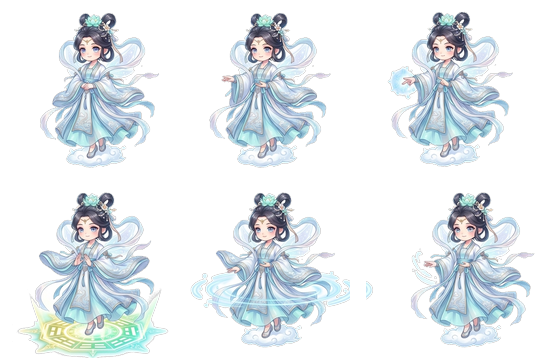
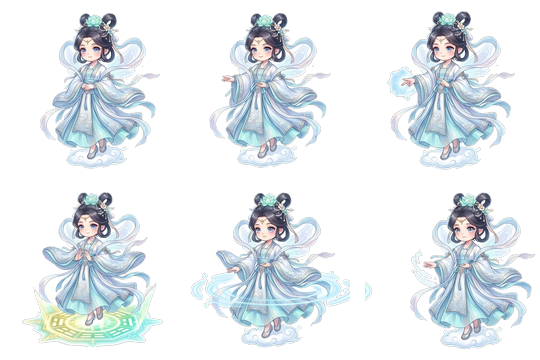
feat(art): 清虚仙子灵木拂尘序列帧实装 + 对齐工具支持逐帧高度归一
序列帧产出
- public/player_spell_fuchen_sheet.png（540x360，3x2，单帧 180x180）
- art-source/raw/qingxu_sheet_fuchen_v1.png 原始出图存档
- 六帧均无拂尘本体，仅角色 + 法术光效；第 3 帧为碧霞仙浪扇面特效

发现并修正：整行缩放差异（这次是新问题）
- 上排三帧角色高约 308px、下排约 318px，相差约 3%
- 上一版工具只做头顶对齐，会导致下排角色偏大、脚底低约 9px
- align_frames.py 改为「逐帧按角色高度归一化再对齐」：
  每帧缩放 = 全局缩放 x (中位角色高 / 本帧角色高)
- 同时把角色高度测量改稳健：剔除"整行宽度异常大"的行，
  避免地面法阵把角色高度撑大（八卦套帧 3 曾因此虚高到 331px）
- 两套复核：头顶均 13±1，角色脚底 92.8~93.9%（目标 93%）

回归验证
- 八卦套用新工具重新生成，脚底一致性较上一版更好

代码
- playerWeaponSheets 新增 spell_fuchen 与 fuchen 类型别名

测试
- 新增灵木拂尘的文件存在/体积/PNG 签名/规格/配置/匹配断言
- 13/13 套件通过；已用 art:frame 截图确认实装后仅有一个拂尘

diff --git a/src/main.js b/src/main.js
@@ -1241,11 +1241,13 @@ const playerWeaponSheets = {
   sword_jifeng: { img: typeof Image !== 'undefined' ? new Image() : null, loaded: false, src: './player_sword_jifeng_sheet.png', frameW: 180, frameH: 180, cols: 3, rows: 2, totalFrames: 6 },
   sword_benlei: { img: typeof Image !== 'undefined' ? new Image() : null, loaded: false, src: './player_sword_benlei_sheet.png', frameW: 180, frameH: 180, cols: 3, rows: 2, totalFrames: 6 },
   spell_bagua: { img: typeof Image !== 'undefined' ? new Image() : null, loaded: false, src: './player_spell_bagua_sheet.png', frameW: 180, frameH: 180, cols: 3, rows: 2, totalFrames: 6 },
+  spell_fuchen: { img: typeof Image !== 'undefined' ? new Image() : null, loaded: false, src: './player_spell_fuchen_sheet.png', frameW: 180, frameH: 180, cols: 3, rows: 2, totalFrames: 6 },
 }
 playerWeaponSheets['sword'] = playerWeaponSheets.sword_qingfeng
 playerWeaponSheets['daggers'] = playerWeaponSheets.sword_jifeng
 playerWeaponSheets['thunder_sword'] = playerWeaponSheets.sword_benlei
 playerWeaponSheets['bagua'] = playerWeaponSheets.spell_bagua
+playerWeaponSheets['fuchen'] = playerWeaponSheets.spell_fuchen
 
 if (!isHeadless) {
   for (const k in playerWeaponSheets) {

diff --git a/tools/art/align_frames.py b/tools/art/align_frames.py
@@ -67,6 +67,27 @@ def robust_top(mask: np.ndarray, min_px: int = 3) -> int:
     return int(rows.min()) if rows.size else 0
 
 
+def robust_span(mask: np.ndarray, min_px: int = 3, wide_ratio: float = 1.7) -> tuple[int, int]:
+    """返回角色本体的 (头顶 y, 脚底 y)。
+
+    只用中央窄带定位身体，并剔除"整行宽度异常大"的行 —— 那通常是地面法阵之类的
+    特效横扫，会把角色高度撑大（实测：八卦阵盘帧 3 因此虚高到 331px）。
+    """
+    h, w = mask.shape
+    band = mask[:, int(w * 0.45):int(w * 0.55)]
+    cnt = band.sum(1)
+    widths = mask.sum(1)
+    valid = widths > 0
+    med_w = float(np.median(widths[valid])) if valid.any() else 0.0
+    limit = med_w * wide_ratio if med_w > 0 else float("inf")
+    rows = [y for y in range(h) if cnt[y] >= min_px and widths[y] <= limit]
+    if not rows:
+        rows = list(np.nonzero(cnt >= min_px)[0])
+    if not rows:
+        return 0, h - 1
+    return int(min(rows)), int(max(rows))
+
+
 def main() -> int:
     ap = argparse.ArgumentParser(description="序列帧网格对齐与打包")
     ap.add_argument("--in", dest="src", required=True)
@@ -95,63 +116,60 @@ def main() -> int:
     # 1) 抠底
     cut = [remove_background(f, args.bg, args.tol_lo, args.tol_hi, seal=args.seal) for f in frames]
 
-    # 2) 逐帧测头顶
-    tops = [robust_top(np.asarray(f)[..., 3] > 128) for f in cut]
+    # 2) 逐帧测头顶与角色本体高度
+    spans = [robust_span(np.asarray(f)[..., 3] > 128) for f in cut]
+    tops = [t for t, _ in spans]
+    heights = [b - t + 1 for t, b in spans]
     print(f"\n各帧头顶 y: {tops}   极差 {max(tops)-min(tops)}px")
-
-    # 3) 估计角色本体高度（中位数，避免带地面法阵的帧把高度拉大）
-    heights = []
-    for f, t in zip(cut, tops):
-        b = content_bbox(f)[3] - 1
-        heights.append(b - t + 1)
+    print(f"各帧角色高: {heights}")
     char_h = int(np.median(heights))
-    print(f"各帧内容高: {heights}   取中位角色高 = {char_h}px")
+    print(f"取中位角色高 = {char_h}px（逐帧按此归一，消除整行缩放差异）")
 
-    # 4) 统一缩放到 [head, baseline] 区间
+    # 3) 统一映射到 [head, baseline] 区间，并对每帧做高度归一化
     F = args.frame
     target_h = (args.baseline - args.head) * F
-    s = target_h / char_h
+    s_global = target_h / char_h
     head_y = args.head * F
-    print(f"缩放系数 {s:.4f}  -> 角色高 {char_h}px 映射为 {target_h:.1f}px，"
+    print(f"全局缩放 {s_global:.4f}  -> 角色高 {char_h}px 映射为 {target_h:.1f}px，"
           f"头顶 y={head_y:.1f}，脚底 y={args.baseline*F:.1f}")
 
-    # 5) 逐帧对齐并放置到 F×F
+    # 4) 逐帧对齐并放置到 F×F
     placed = []
-    for i, (f, t) in enumerate(zip(cut, tops)):
+    for i, (f, t, hgt) in enumerate(zip(cut, tops, heights)):
+        # 本帧缩放 = 全局缩放 × 高度归一化系数
+        s = s_global * (char_h / hgt)
         w, h = f.size
         scaled_w, scaled_h = max(1, round(w * s)), max(1, round(h * s))
         small = unpremultiply(f.convert("RGBA").resize((scaled_w, scaled_h), Image.Resampling.LANCZOS))
-        # 源帧的头顶会落在 small 的 round(t*s) 处，把它抬到 head_y
         y_off = int(round(head_y - t * s))
-        # 水平：按内容包围盒中心对齐到帧中心
         l, _, r, _ = content_bbox(f)
         cx_src = (l + r - 1) / 2 * s
         x_off = int(round(F / 2 - cx_src))
         canvas = Image.new("RGBA", (F, F), (0, 0, 0, 0))
         canvas.alpha_composite(small, (x_off, y_off))
         placed.append(canvas)
-        if i == 0 or tops[i] != tops[0]:
-            print(f"  帧{i}: 头顶源 y={t} -> 位移 {y_off:+d}px, 水平 {x_off:+d}px")
+        print(f"  帧{i}: 头顶源 y={t} 高={hgt} -> 缩放 {s:.4f} 位移 {y_off:+d}px 水平 {x_off:+d}px")
 
-    # 6) 打包
+    # 5) 打包
     pc = args.pack_cols
     pr = (len(placed) + pc - 1) // pc
     sheet = Image.new("RGBA", (pc * F, pr * F), (0, 0, 0, 0))
     for i, p in enumerate(placed):
         sheet.paste(p, ((i % pc) * F, (i // pc) * F), p)
 
-    # 7) 复核：对齐后各帧头顶与脚底
+    # 6) 复核：对齐后各帧头顶与角色脚底
     print("\n对齐后复核:")
     ok = True
     for i, p in enumerate(placed):
         m = np.asarray(p)[..., 3] > 128
-        t2 = robust_top(m)
-        b2 = content_bbox(p)[3] - 1
+        t2, b2 = robust_span(m)
         dev = abs(t2 - head_y)
-        flag = "OK" if dev <= 3 else "!!"
-        if dev > 3: ok = False
-        print(f"  帧{i}: 头顶 {t2:>3} (目标 {head_y:.0f}) 偏差 {t2-head_y:+.0f}px {flag}"
-              f"   内容底边 {b2/F*100:5.1f}%")
+        foot = (b2 + 1) / F * 100
+        foot_dev = abs(foot - args.baseline * 100)
+        flag = "OK" if dev <= 3 and foot_dev <= 2.5 else "!!"
+        if flag == "!!": ok = False
+        print(f"  帧{i}: 头顶 {t2:>3} (目标 {head_y:.0f}, 偏差 {t2-head_y:+.0f}px)  "
+              f"角色脚底 {foot:5.1f}% (目标 {args.baseline*100:.0f}%) {flag}")
     print("对齐" + ("通过" if ok else "仍有偏差，请检查"))
 
     out_path = os.path.normpath(os.path.join(ROOT, args.dst)) if not os.path.isabs(args.dst) else args.dst

diff --git a/art-source/briefs/qingxu_weapon_action_sheets.md b/art-source/briefs/qingxu_weapon_action_sheets.md
@@ -24,10 +24,12 @@
 | :--- | :--- |
 | **形象与画风基准（必须对齐）** | [`public/player_fairy.png`](../../public/player_fairy.png) |
 | 比例与帧规格对照（已完成，可参考） | [`public/player_sword_qingfeng_sheet.png`](../../public/player_sword_qingfeng_sheet.png) |
+| ✅ 已产出：八卦阵盘序列帧 | [`public/player_spell_bagua_sheet.png`](../../public/player_spell_bagua_sheet.png) |
+| ✅ 已产出：灵木拂尘序列帧 | [`public/player_spell_fuchen_sheet.png`](../../public/player_spell_fuchen_sheet.png) |
+| ⬜ 待产出：混元宝珠序列帧 | `player_spell_baozhu_sheet.png` |
 
-> [!NOTE]
-> 法修目前**尚无任何动作序列帧**，本节暂以角色立绘为唯一基准。
-> 三套序列帧产出后，请把成品图补入本表，供后续武器沿用同一形象。
+> 已产出的两套可作为后续出图的**同源参照**：形象、头身比、帧基线都已统一，
+> 新的一套请与它们并排比对，确保三套之间角色形象完全一致。
 
 ---
 
